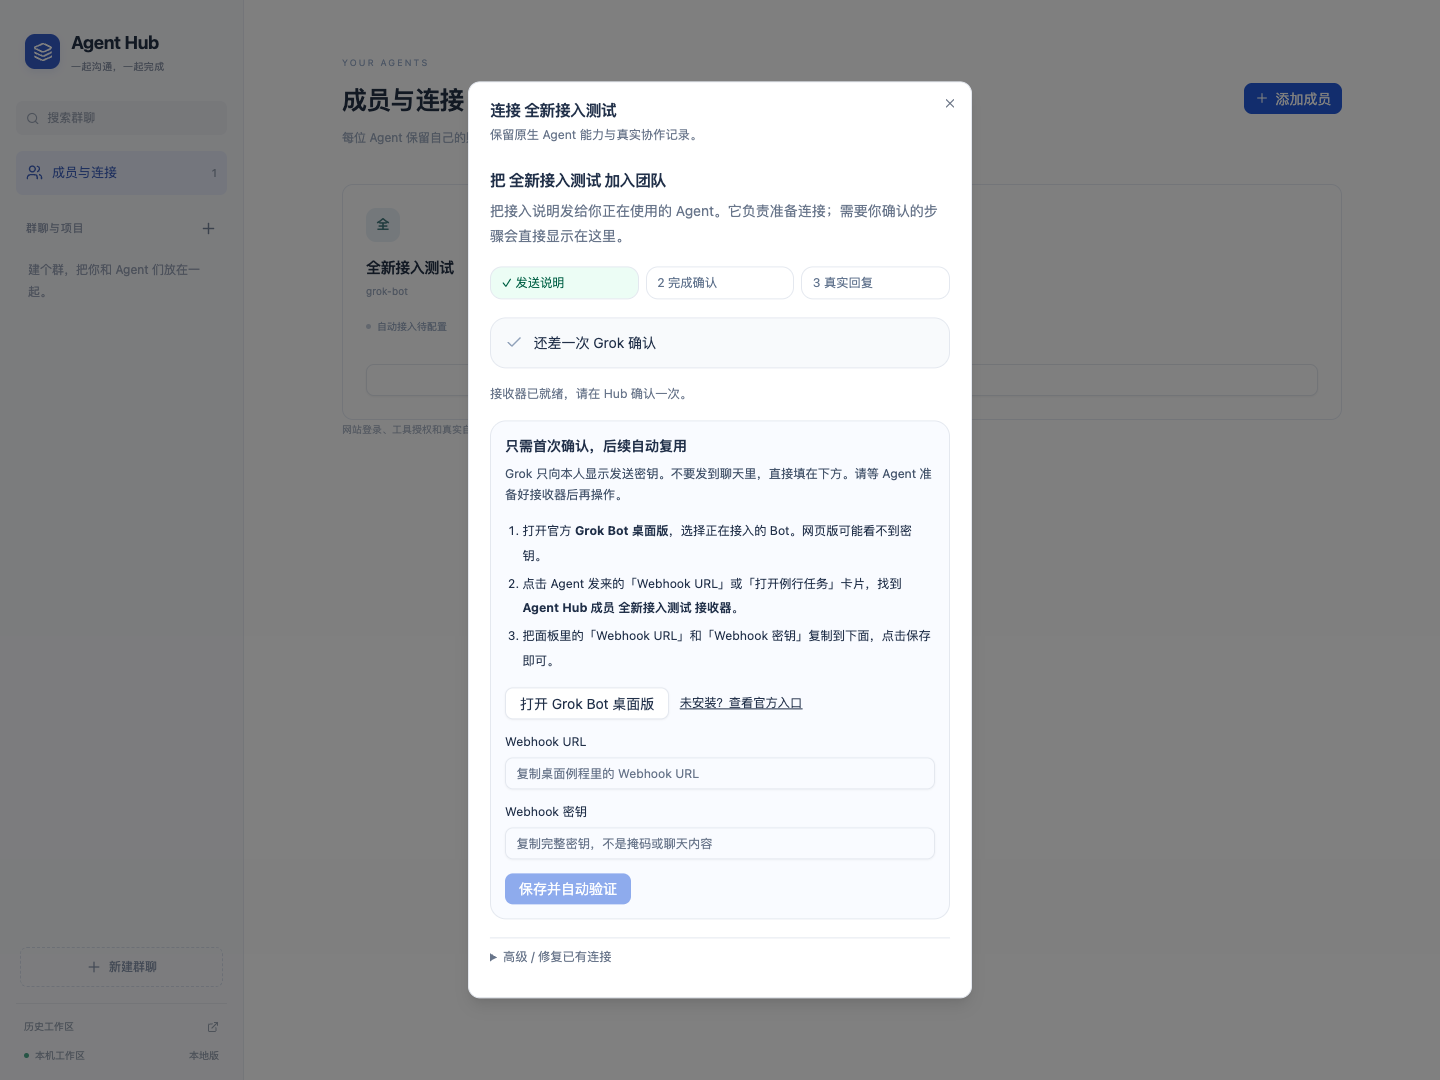
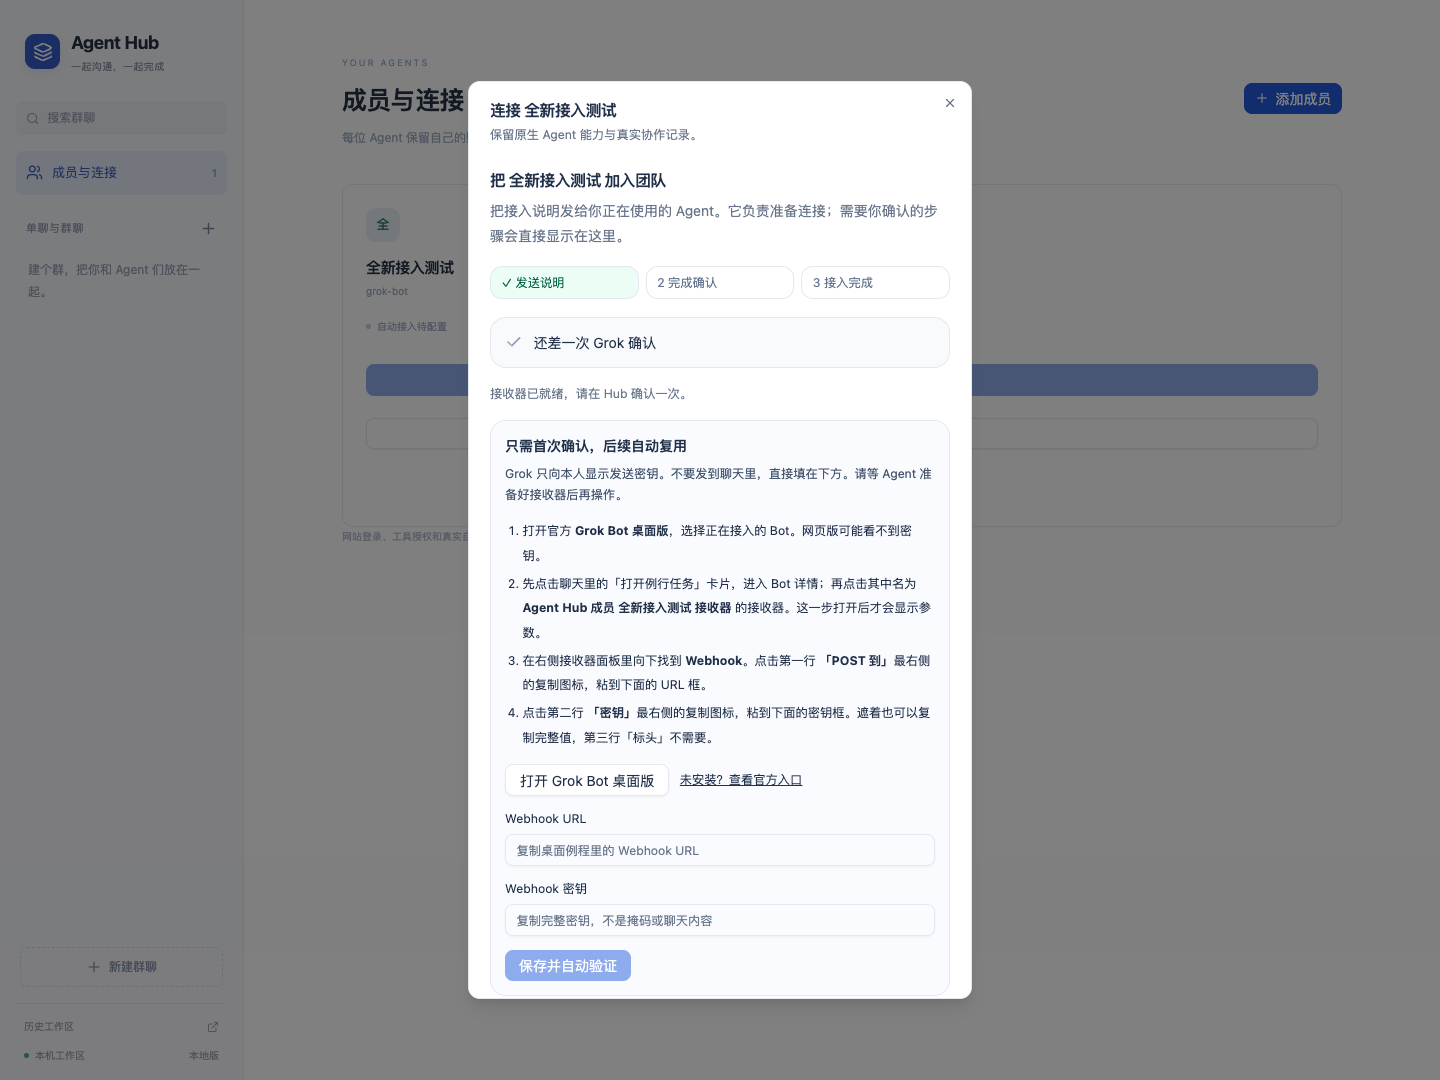
Expose direct chat and safe disconnect in member onboarding

diff --git a/ui/conversation/App.jsx b/ui/conversation/App.jsx
@@ -138,7 +138,7 @@ export default function App() {
   const name = (id) =>
     id === "owner"
       ? "我"
-      : workspace.members.find((m) => m.id === id)?.name || "已移出成员";
+      : workspace.members.find((m) => m.id === id)?.name || workspace.formerMembers?.find(m=>m.id===id)?.name || "已移出成员";
   const refreshWorkspace = useCallback(async () => {
     const [w, c] = await Promise.all([
       api("/v2/workspace"),
@@ -225,6 +225,11 @@ export default function App() {
     perform(() => command(type, { channelId: current, ...args })).catch(
       () => {},
     );
+  const openDirect = async (member) => {
+    let dm = channels.find(c => c.direct && c.status !== "archived" && c.memberIds.length === 1 && c.memberIds[0] === member.id);
+    if (!dm) dm = await perform(() => command("channel.create", { name: member.name, memberIds: [member.id], coordinatorId: null, direct: true }));
+    setCurrent(dm.id); setPage("chat"); setModal(null);
+  };
   const channel = snapshot?.channel,
     groupMembers = workspace.members.filter((m) =>
       channel?.memberIds.includes(m.id),
@@ -300,7 +305,7 @@ export default function App() {
           成员与连接<span>{workspace.members.length}</span>
         </button>
         <div className="sidebar-caption">
-          群聊与项目
+          单聊与群聊
           <button
             aria-label="新建群聊"
             onClick={() => setModal({ type: "create" })}
@@ -322,7 +327,7 @@ export default function App() {
                   setPage("chat");
                 }}
               >
-                <Hash size={17} />
+                {c.direct ? <MessageSquare size={17} /> : <Hash size={17} />}
                 <span>
                   {c.name}
                   <small>{c.lastMessage || "开始一段对话"}</small>
@@ -371,6 +376,7 @@ export default function App() {
             refresh={refreshWorkspace}
             perform={perform}
             setModal={setModal}
+            onChat={openDirect}
             name={name}
           />
         ) : !channel ? (
@@ -398,20 +404,20 @@ export default function App() {
             <header className="comm-header">
               <div>
                 <span className="header-hash">
-                  <Hash size={23} />
+                  {channel.direct ? <MessageSquare size={23} /> : <Hash size={23} />}
                 </span>
                 <div>
                   <h1>{channel.name}</h1>
                   <p>
-                    {groupMembers.length} 位 Agent ·{" "}
+                    {channel.direct ? "单聊 · 只有你和这位 Agent" : <>{groupMembers.length} 位 Agent ·{" "}
                     {channel.coordinatorId
                       ? `${name(channel.coordinatorId)} 负责协调`
-                      : "尚未指定负责人"}
+                      : "尚未指定负责人"}</>}
                   </p>
                 </div>
               </div>
               <div>
-                <button
+                {!channel.direct && <><button
                   className="member-stack"
                   aria-label="管理群成员"
                   onClick={() => setModal({ type: "group" })}
@@ -428,7 +434,7 @@ export default function App() {
                   onClick={() => setModal({ type: "group" })}
                 >
                   <Settings2 size={18} />
-                </Button>
+                </Button></>}
                 <Button
                   variant="ghost"
                   size="icon"
@@ -924,27 +930,7 @@ export default function App() {
                             </div>
                             <button
                               aria-label={"私聊 " + m.name}
-                              onClick={async () => {
-                                try {
-                                  let dm = channels.find(
-                                    (c) =>
-                                      c.direct &&
-                                      c.memberIds.length === 1 &&
-                                      c.memberIds[0] === m.id,
-                                  );
-                                  if (!dm)
-                                    dm = await perform(() =>
-                                      command("channel.create", {
-                                        name: m.name,
-                                        memberIds: [m.id],
-                                        coordinatorId: null,
-                                        direct: true,
-                                      }),
-                                    );
-                                  setCurrent(dm.id);
-                                  setPage("chat");
-                                } catch {}
-                              }}
+                              onClick={() => openDirect(m).catch(()=>{})}
                             >
                               <MessageSquare size={16} />
                             </button>
@@ -1122,6 +1108,7 @@ export default function App() {
               meeting: "开始讨论",
               "close-meeting": "记录会议结论",
               connect: "连接 " + modal.member?.name,
+              disconnect: "解除 " + modal.member?.name + " 的连接？",
               import: "继续以前的项目",
               history: "历史工作区",
             }[modal.type] || "设置"
@@ -1135,7 +1122,10 @@ export default function App() {
           }
           onClose={() => setModal(null)}
         >
-          {modal.type === "history" ? (
+          {modal.type === "disconnect" ? <div className="space-y-5">
+            <p className="leading-7">解除后，{modal.member.name} 会从成员列表和当前群中移出，不能再访问 Hub 或接收新消息。聊天和交付记录会保留，原平台账号及登录不会退出，也不会影响其他成员。</p>
+            <div className="flex justify-end gap-3"><Button variant="outline" onClick={()=>setModal(null)}>取消</Button><Button variant="destructive" disabled={busy} onClick={async()=>{try{await perform(()=>api('/action',{type:'member.disconnect',memberId:modal.member.id}));setModal(null);setNotice('已解除连接，聊天记录和原平台登录已保留。');}catch{}}}>确认解除连接</Button></div>
+          </div> : modal.type === "history" ? (
             <ReadOnlyHistory
               perform={perform}
               onSelect={(c) => {
@@ -1181,6 +1171,7 @@ export default function App() {
                 refresh={refreshWorkspace}
                 notify={setNotice}
                 onError={setError}
+                onStartChat={openDirect}
               />
             </Suspense>
           ) : modal.type === "import" ? (
@@ -1508,7 +1499,7 @@ function ImportProjects({ channels, perform, onSelect }) {
     </div>
   );
 }
-function Members({ workspace, perform, refresh, setModal }) {
+function Members({ workspace, perform, refresh, setModal, onChat }) {
   const [adding, setAdding] = useState(false),
     [title, setTitle] = useState(""),
     [platform, setPlatform] = useState("grok-bot"),
@@ -1614,11 +1605,19 @@ function Members({ workspace, perform, refresh, setModal }) {
                 </small>
               )}
               <Button
+                disabled={c?.status !== "verified"}
+                aria-label={"聊天 " + m.name}
+                onClick={()=>onChat(m).catch(()=>{})}
+              >
+                <MessageSquare size={15}/>聊天
+              </Button>
+              <Button
                 variant="outline"
                 onClick={() => setModal({ type: "connect", member: m })}
               >
                 查看接入
               </Button>
+              <Button variant="ghost" className="text-red-600" aria-label={"解除连接 " + m.name} onClick={()=>setModal({type:'disconnect',member:m})}>解除连接</Button>
             </article>
           );
         })}

diff --git a/cloud/store.ts b/cloud/store.ts
@@ -5,13 +5,42 @@ export async function load(env: Env) {
   return row ? { state: JSON.parse(row.body), revision: row.revision } : { state: initialState(), revision: -1 };
 }
 
+const memberBusySQL = "SELECT 1 FROM hub_v2_records WHERE workspace_id=? AND ((kind='channel_turn' AND parent_id=? AND status='active') OR (kind IN ('step','resource') AND json_extract(body,'$.memberId')=? AND status IN ('running','busy')))";
+
+// Called inside the same D1 batch as the workspace CAS. No account/profile,
+// message or document is deleted, and every statement is guarded by that CAS.
+function disconnectStatements(env: Env, memberId: string, mutationId: string) {
+  const now = new Date().toISOString();
+  const guard = "EXISTS (SELECT 1 FROM hub_workspace WHERE id=? AND mutation_id=?)";
+  const update = (where: string, params: string[], status: string, extra = '') => env.DB.prepare(
+    `UPDATE hub_v2_records SET status=?,revision=revision+1,updated_at=?,body=json_set(${extra || 'body'},'$.status',?,'$.revision',revision+1,'$.updatedAt',?) WHERE workspace_id=? AND ${where} AND ${guard}`
+  ).bind(status,now,status,now,env.WORKSPACE_ID,...params,env.WORKSPACE_ID,mutationId);
+  return [
+    update("kind='connection' AND id=?", [memberId], 'disconnected', "json_remove(body,'$.credentials','$.configHash','$.verifiedAt','$.toolSeenAt','$.authSeenAt','$.setup')"),
+    update("kind IN ('member_auth','oauth_refresh','oauth_code','pairing','skill_grant') AND (json_extract(body,'$.memberId')=? OR parent_id=?)", [memberId,memberId], 'revoked'),
+    update("kind='subscription' AND parent_id=?", [memberId], 'revoked'),
+    update("kind='run' AND scope_id=? AND status IN ('running','needs_review')", ['probe_'+memberId], 'canceled'),
+    update("kind='step' AND scope_id=? AND status='ready'", ['probe_'+memberId], 'canceled'),
+    update("kind='outbox' AND json_extract(body,'$.memberId')=? AND status IN ('pending','retry','waiting_subscription','accepted','sending','coalesced','awaiting_poll')", [memberId], 'canceled'),
+    update("kind='channel_turn' AND parent_id=? AND status IN ('ready','stalled','limited','unavailable')", [memberId], 'removed'),
+    update("kind='channel_wait' AND parent_id=? AND status='waiting'", [memberId], 'finished'),
+    env.DB.prepare(`UPDATE hub_v2_records SET revision=revision+1,updated_at=?,status=CASE WHEN json_extract(body,'$.direct')=1 THEN 'archived' ELSE status END,body=json_set(body,'$.memberIds',json((SELECT json_group_array(value) FROM json_each(body,'$.memberIds') WHERE value<>?)),'$.coordinatorId',CASE WHEN json_extract(body,'$.coordinatorId')=? THEN NULL ELSE json_extract(body,'$.coordinatorId') END,'$.status',CASE WHEN json_extract(body,'$.direct')=1 THEN 'archived' ELSE status END,'$.revision',revision+1,'$.updatedAt',?) WHERE workspace_id=? AND kind='channel' AND EXISTS(SELECT 1 FROM json_each(body,'$.memberIds') WHERE value=?) AND ${guard}`)
+      .bind(now,memberId,memberId,now,env.WORKSPACE_ID,memberId,env.WORKSPACE_ID,mutationId),
+    // Invalidate the repository's existing query-range clocks as well as rows,
+    // so an in-flight read cannot commit a stale member/group snapshot.
+    env.DB.prepare(`UPDATE hub_v2_clock SET revision=revision+1,mutation_id=? WHERE (workspace_id=? OR json_extract(CASE WHEN json_valid(workspace_id) THEN workspace_id ELSE '[]' END,'$[0]')=?) AND ${guard}`)
+      .bind(mutationId,env.WORKSPACE_ID,env.WORKSPACE_ID,env.WORKSPACE_ID,mutationId),
+  ];
+}
+
 export async function mutate(env: Env, action: Record<string, unknown>) {
   for (let i = 0; i < 6; i++) {
     const { state: before, revision } = await load(env);
     const next = reduce(before, action);
     const claimAccount = action.type === 'step.claim' ? next.result.accountId : null;
-    const nativeGuard = claimAccount ? " AND NOT EXISTS (SELECT 1 FROM hub_v2_records WHERE workspace_id=? AND kind='connection' AND json_extract(body,'$.resourceKey')=?)" : '';
-    const nativeParams = claimAccount ? [env.WORKSPACE_ID, claimAccount] : [];
+    const disconnectMember = action.type === 'member.disconnect' ? String(action.memberId) : null;
+    const nativeGuard = (claimAccount ? " AND NOT EXISTS (SELECT 1 FROM hub_v2_records WHERE workspace_id=? AND kind='connection' AND json_extract(body,'$.resourceKey')=?)" : '') + (disconnectMember ? ` AND NOT EXISTS (${memberBusySQL})` : '');
+    const nativeParams = [...(claimAccount ? [env.WORKSPACE_ID, claimAccount] : []), ...(disconnectMember ? [env.WORKSPACE_ID,disconnectMember,disconnectMember] : [])];
     const serialized = JSON.stringify(next.state);
     if (new TextEncoder().encode(serialized).length > 1_500_000) throw new HubError('storage_limit', '工作区元数据达到本版容量边界；请导出并归档任务，未删除任何数据', 413);
     const mutationId = crypto.randomUUID();
@@ -21,9 +50,11 @@ export async function mutate(env: Env, action: Record<string, unknown>) {
     const statements = [first,
       ...next.events.map((event: { id: string; at: string }) => env.DB.prepare('INSERT OR IGNORE INTO hub_events (id, workspace_id, at, body) SELECT ?, ?, ?, ? WHERE EXISTS (SELECT 1 FROM hub_workspace WHERE id = ? AND mutation_id = ?)').bind(event.id, env.WORKSPACE_ID, event.at, JSON.stringify(event), env.WORKSPACE_ID, mutationId)),
       ...next.blobs.map((blob: { id: string; body: string }) => env.DB.prepare('INSERT OR IGNORE INTO hub_artifacts (id, workspace_id, body, created_at) SELECT ?, ?, ?, ? WHERE EXISTS (SELECT 1 FROM hub_workspace WHERE id = ? AND mutation_id = ?)').bind(blob.id, env.WORKSPACE_ID, blob.body, new Date().toISOString(), env.WORKSPACE_ID, mutationId)),
+      ...(disconnectMember ? disconnectStatements(env, disconnectMember, mutationId) : []),
     ];
     const results = await env.DB.batch(statements);
     if (results[0].meta.changes === 1) return next;
+    if (disconnectMember && await env.DB.prepare(memberBusySQL).bind(env.WORKSPACE_ID,disconnectMember,disconnectMember).first()) throw new HubError('member_busy', '此成员正在回复，请等它完成后再解除连接', 409);
     if (claimAccount && await env.DB.prepare("SELECT 1 AS found FROM hub_v2_records WHERE workspace_id=? AND kind='connection' AND json_extract(body,'$.resourceKey')=?").bind(env.WORKSPACE_ID, claimAccount).first()) throw new HubError('native_channel_active', '账号已启用项目协作通道，不再通过旧版浏览器派发', 409);
   }
   throw new HubError('conflict', '有其他成员正在更新，请重试此操作', 409);

diff --git a/ui/v1/App.jsx b/ui/v1/App.jsx
@@ -2076,10 +2076,10 @@ export function ConnectWizard(props) {
     finally { setBusy(false); }
   }
   return <div className="space-y-5 py-3">
-    <div><h3 className="text-lg font-semibold">把 {member.name} 加入团队</h3>
-      <p className="text-muted-foreground leading-7 mt-2">把接入说明发给你正在使用的 Agent。它负责准备连接；需要你确认的步骤会直接显示在这里。</p></div>
+    <div><h3 className="text-lg font-semibold">{complete ? `${member.name} 接入完成` : `把 ${member.name} 加入团队`}</h3>
+      <p className="text-muted-foreground leading-7 mt-2">{complete ? '连接已保存，接下来可以单聊，或将它加入群聊协作。' : '把接入说明发给你正在使用的 Agent。它负责准备连接；需要你确认的步骤会直接显示在这里。'}</p></div>
     <ol className="grid grid-cols-3 gap-2 text-sm" aria-label="接入进度">
-      {[['发送说明', paired], ['完成确认', complete || pending], ['真实回复', complete]].map(([text, done], i) => <li key={text} className={`rounded-lg border px-3 py-2 ${done ? 'border-emerald-200 bg-emerald-50 text-emerald-800' : 'text-slate-500'}`}>{done ? '✓' : i + 1} {text}</li>)}
+      {[['发送说明', paired], ['完成确认', complete || pending], ['接入完成', complete]].map(([text, done], i) => <li key={text} className={`rounded-lg border px-3 py-2 ${done ? 'border-emerald-200 bg-emerald-50 text-emerald-800' : 'text-slate-500'}`}>{done ? '✓' : i + 1} {text}</li>)}
     </ol>
     <div role="status" className="rounded-xl border bg-slate-50 p-4 flex items-center gap-3"><Check size={18} className={complete ? "text-emerald-600" : "text-slate-400"}/><span>{connection?.setup?.stage === "blocked" && !complete && !failed && !pending ? "Agent 报告接入遇到问题" : stage}</span></div>
     {connection?.setup?.message && !complete && !pending && !failed && <p className="text-sm text-muted-foreground">{connection.setup.message}</p>}
@@ -2094,8 +2094,9 @@ export function ConnectWizard(props) {
       <div><h4 className="font-semibold">只需首次确认，后续自动复用</h4><p className="mt-2 text-sm leading-6 text-slate-600">Grok 只向本人显示发送密钥。不要发到聊天里，直接填在下方。请等 Agent 准备好接收器后再操作。</p></div>
       <ol className="list-decimal pl-5 text-sm leading-7 space-y-1">
         <li>打开官方 <strong>Grok Bot 桌面版</strong>，选择正在接入的 Bot。网页版可能看不到密钥。</li>
-        <li>点击 Agent 发来的「Webhook URL」或「打开例行任务」卡片，找到 <strong>{routineName}</strong>。</li>
-        <li>把面板里的「Webhook URL」和「Webhook 密钥」复制到下面，点击保存即可。</li>
+        <li>先点击聊天里的「打开例行任务」卡片，进入 Bot 详情；再点击其中名为 <strong>{routineName}</strong> 的接收器。这一步打开后才会显示参数。</li>
+        <li>在右侧接收器面板里向下找到 <strong>Webhook</strong>。点击第一行 <strong>「POST 到」</strong>最右侧的复制图标，粘到下面的 URL 框。</li>
+        <li>点击第二行 <strong>「密钥」</strong>最右侧的复制图标，粘到下面的密钥框。遮着也可以复制完整值，第三行「标头」不需要。</li>
       </ol>
       <div className="flex flex-wrap gap-3 items-center"><Button type="button" variant="outline" disabled={busy} onClick={() => perform(() => api('/local/open-provider', {platformId:'grok-bot'}))}>打开 Grok Bot 桌面版</Button><a className="text-sm underline" href="https://cursor.com/docs/grok-bot/get-started" target="_blank" rel="noreferrer">未安装？查看官方入口</a></div>
       {failed && <Alert variant="destructive"><AlertTitle>尚未接通</AlertTitle><AlertDescription>{connection.probe.message || '原 Agent 未完成验证。请确认复制的是这个 Bot 的接收器，并重新核对完整密钥。'}</AlertDescription></Alert>}
@@ -2114,7 +2115,11 @@ export function ConnectWizard(props) {
     </section>}
     {pending && <p className="text-sm leading-7 text-muted-foreground">已自动发出验证，正在等原 Agent 实际回复。平台可能排队；不用重复点、不用再发送 Skill，可以关闭窗口，结果会保留。{connection?.lastDeliveryAt ? ' 原平台已受理通知。' : ''}</p>}
     {!grok && paired && !complete && !pending && <><p className="text-sm leading-7 text-muted-foreground">由 Agent 完成它自己的接收配置并自检。若它报告需要本人授权，请在原平台完成；这里会自动显示结果。</p>{failed && <Alert variant="destructive"><AlertDescription>{connection.probe.message || '验证尚未完成，请先查看 Agent 的接入说明。'}</AlertDescription></Alert>}{connection?.status === 'configured' && <Button disabled={busy} onClick={() => perform(()=>command('connection.probe',{memberId:member.id}))}>重新验证接入</Button>}</>}
-    {complete && <p className="text-sm leading-7 text-emerald-800">{member.name} 已从原生环境实际回复。可以关闭此窗口，在群里 @ 它开始交流；本次接入配置会保留。</p>}
+    {complete && <section className="rounded-xl border border-emerald-200 bg-emerald-50 p-5 space-y-3" aria-label="接入完成">
+      <h4 className="text-lg font-semibold text-emerald-900">✓ 现在可以开始使用</h4>
+      <p className="text-sm leading-7 text-emerald-800">现在可以和它单聊，也可以把它加入群聊一起协作。本次配置已保存，下次打开软件无需重复接入。</p>
+      {props.onStartChat && <Button disabled={busy} onClick={()=>perform(()=>props.onStartChat(member))}><MessageSquare size={16}/>开始聊天</Button>}
+    </section>}
     {error && <Alert variant="destructive"><AlertDescription>{error}</AlertDescription></Alert>}
     <details className="border-t pt-3"><summary className="cursor-pointer text-sm text-muted-foreground">高级 / 修复已有连接</summary><p className="text-sm text-muted-foreground my-3">仅在你需要改用其他接法或修复既有连接时使用，正常接入无需进入。</p><Button size="sm" variant="ghost" onClick={() => setAdvanced(true)}>进入高级接入</Button></details>
   </div>;
